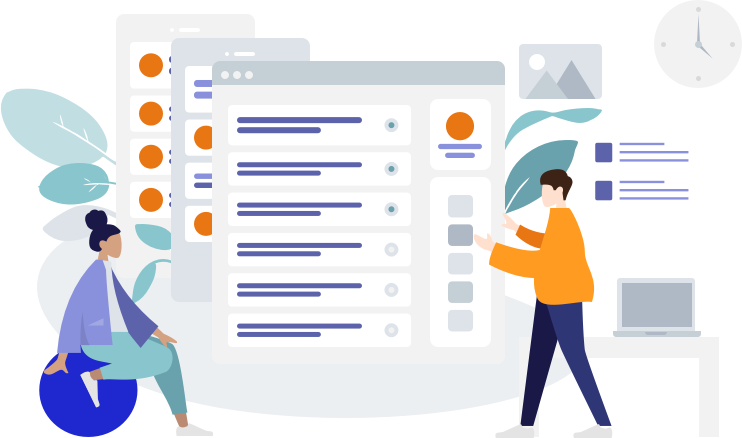
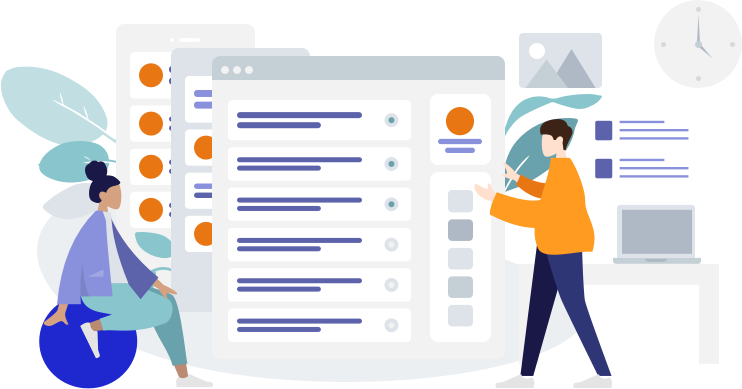
updates landing page / hide patterns navigation tab

diff --git a/index.html b/index.html
@@ -3,86 +3,108 @@ title: Home
 layout: layout-default
 ---
 
-<section class="sgds-section hide-element" >
+<section class="sgds-section hide-element" style="padding-top:10px;">
     <div class="header_bg"></div>
     <div class="sgds-container">
-      <div class="content">
-        <div class="row">
-          <div class="col is-5 is-flex hero-main">
-            <h1 class="has-text-weight-black">
-              Singapore Government Design System
-            </h1>
-            <p class="has-text-weight-normal margin--top">
-                v{{site.sgds-version}}
-                <br>
-                Build a better digital experience for Singapore
-            </p>
-            <a href="/docs/" class="sgds-button is-rounded is-primary">Get Started</a>
-          </div>
-          
-          <div class="col">
-            <img src="/assets/img/bg_people.png" alt="two people around web browsers and mobile browsers" />
-          </div>
-        </div>
-      </div>
-    </div>
-  </section>
+        <div class="content">
+            <div class="row">
+                <div class="col is-5 is-flex hero-main">
+                    <h1 class="has-text-weight-black">
+                        Singapore Government Design System
+                    </h1>
+                    <p class="has-text-weight-normal margin--top">
+                        v{{site.sgds-version}}
+                        <br />
+                        Build a better digital experience for Singapore
+                    </p>
+                    <a href="/docs/" class="sgds-button is-rounded is-primary">Get Started</a>
+                </div>
 
-  <section class="sgds-section">
+                <div class="col">
+                    <img
+                        src="/assets/img/bg_people.png"
+                        alt="two people around web browsers and mobile browsers"
+                    />
+                </div>
+            </div>
+        </div>
+    </div>
+</section>
+
+<section class="sgds-section" style="padding-top:0px;">
     <div class="sgds-container ">
         {% include component-guide-section.html %}
-        </div>
-  </section>
+    </div>
+</section>
 
 <section class="sgds-section">
     <div class="sgds-container ">
         <div class="content">
             <div class="row has-text-centered">
-                <div class="col is-10 is-offset-1">
+                <div class="col">
                     <h2 class="has-text-weight-black">Why use SGDS</h2>
                 </div>
             </div>
             <div class="row has-text-centered">
-                <div class="col is-10 is-offset-1">
+                <div class="col">
                     <div class="row is-multiline">
                         <div class="col is-4 padding">
                             <span class="sgds-icon sgds-icon-expand-alt is-size-3"></span>
-                            <h5 class="margin--top margin--bottom--xs has-text-weight-bold">Greater Scalability</h5>
+                            <h5 class="margin--top margin--bottom--xs has-text-weight-bold">
+                                Greater Scalability
+                            </h5>
                             <p>UI Components can be adapted to suit user needs</p>
                         </div>
                         <div class="col is-4 padding">
                             <span class="sgds-icon sgds-icon-layers is-size-3"></span>
-                            <h5 class="margin--top margin--bottom--xs has-text-weight-bold">Trust in Services</h5>
+                            <h5 class="margin--top margin--bottom--xs has-text-weight-bold">
+                                Trust in Services
+                            </h5>
                             <p>Boost user confidence with recognisable design patterns</p>
                         </div>
                         <div class="col is-4 padding">
                             <span class="sgds-icon sgds-icon-thumbs-up is-size-3"></span>
-                            <h5 class="margin--top margin--bottom--xs has-text-weight-bold">Focus on User Experience</h5>
+                            <h5 class="margin--top margin--bottom--xs has-text-weight-bold">
+                                Focus on User Experience
+                            </h5>
                             <p>Spend less time styling and more time crafting user flows</p>
                         </div>
                         <div class="col is-4 padding">
                             <span class="sgds-icon sgds-icon-sync is-size-3"></span>
-                            <h5 class="margin--top margin--bottom--xs has-text-weight-bold">Easy maintenance, Low Cost</h5>
+                            <h5 class="margin--top margin--bottom--xs has-text-weight-bold">
+                                Easy maintenance, Low Cost
+                            </h5>
                             <p>Reduce technical debt from evolving design choices</p>
                         </div>
                         <div class="col is-4 padding">
                             <span class="sgds-icon sgds-icon-cog is-size-3"></span>
-                            <h5 class="margin--top margin--bottom--xs has-text-weight-bold">Faster Prototyping</h5>
+                            <h5 class="margin--top margin--bottom--xs has-text-weight-bold">
+                                Faster Prototyping
+                            </h5>
                             <p>Build and experiment with plug-n-play components</p>
                         </div>
                         <div class="col is-4 padding">
                             <span class="sgds-icon sgds-icon-person is-size-3"></span>
-                            <h5 class="margin--top margin--bottom--xs has-text-weight-bold">Uncomplicated Compliance</h5>
-                            <p>With <a
-                                    href="https://www.tech.gov.sg/digital-service-standards/">Digital Services
-                                    Standards</a> and <a href="https://www.w3.org/WAI/standards-guidelines/wcag/">WCAG</a></p>
+                            <h5 class="margin--top margin--bottom--xs has-text-weight-bold">
+                                Uncomplicated Compliance
+                            </h5>
+                            <p>
+                                With
+                                <a href="https://www.tech.gov.sg/digital-service-standards/"
+                                    >Digital Services Standards</a
+                                >
+                                and
+                                <a href="https://www.w3.org/WAI/standards-guidelines/wcag/">WCAG</a>
+                            </p>
                         </div>
                     </div>
                 </div>
             </div>
             <div class="row has-text-centered">
                 <div class="col margin--top--lg">
-                    <a class="sgds-button is-primary is-rounded" role="button" href="/about/">Learn more about SGDS</a>
+                    <a class="sgds-button is-primary is-rounded" role="button" href="/about/"
+                        >Learn more about SGDS</a
+                    >
                 </div>
             </div>
         </div>
@@ -99,26 +121,40 @@ layout: layout-default
             </div>
             <div class="row has-text-centered">
                 <div class="col is-8 is-offset-2">
-                        <img src="/assets/img/img_change.png" alt="two ladies meeting" />
+                    <img src="/assets/img/img_change.png" alt="two ladies meeting" />
                     <p class="has-text-white">
-                        SGDS is <a href="https://github.com/govtechsg/sgds" class="has-text-white" style="text-decoration: underline">open source.</a>
+                        SGDS is
+                        <a
+                            href="https://github.com/govtechsg/sgds"
+                            class="has-text-white"
+                            style="text-decoration: underline"
+                            >open source.</a
+                        >
                     </p>
                     <p class="has-text-white">
-                        If you are a developer, designer or content writer, you can help us transform the Singapore
-                        Government's digital services. Let's build a trusted, ever-evolving ecosystem together.</p>
+                        If you are a developer, designer or content writer, you can help us
+                        transform the Singapore Government's digital services. Let's build a
+                        trusted, ever-evolving ecosystem together.
+                    </p>
                 </div>
             </div>
             <div class="row has-text-centered padding--top is-multiline">
                 <div class="col is-12">
-                        <p>Have questions or can't find what you're looking for?</p>
+                    <p>Have questions or can't find what you're looking for?</p>
                 </div>
                 <div class="col is-12">
-                    <a class="sgds-button is-rounded is-outlined is-white margin--left margin--right"
-                        href="https://github.com/govtechsg/sgds/issues" 
-                        target="_blank">Ask us on GitHub</a>
-                    <a class="sgds-button is-rounded is-outlined is-white margin--left margin--right"
+                    <a
+                        class="sgds-button is-rounded is-outlined is-white margin--left margin--right"
+                        href="https://github.com/govtechsg/sgds/issues"
+                        target="_blank"
+                        >Ask us on GitHub</a
+                    >
+                    <a
+                        class="sgds-button is-rounded is-outlined is-white margin--left margin--right"
                         href="https://t.me/sgds_public"
-                        target="_blank">Talk to us on Telegram</a>
+                        target="_blank"
+                        >Talk to us on Telegram</a
+                    >
                 </div>
             </div>
         </div>

diff --git a/_layouts/layout-sidenav.html b/_layouts/layout-sidenav.html
@@ -1,32 +1,16 @@
 ---
 layout: layout-default
 ---
+
 <section class="sgds-section is-small">
     <div class="sgds-container">
         <div class="row sidenav-container">
-<<<<<<< HEAD
-            <div class="col is-2 is-hidden-touch sidenav" 
-                data-topspacing="140" 
-                data-bottomspacing="40">
-                <div class="sidebar__inner sgds-menu">
-                    {% if page.url contains '/docs/' %}
-                    {% include sidenav-docs.html %}
-                    {% elsif page.url contains '/patterns/' %}
-                    {% include sidenav-patterns.html %}
-                    {% else %}
-                    {% include sidenav-collection.html %}
-                    {% endif %}
-=======
             <div class="col is-2 is-hidden-touch">
                 <div class="sidenav" data-topspacing="140" data-bottomspacing="40">
                     <div class="sidebar__inner sgds-menu">
-                        {% if page.url contains '/docs/' %}
-                        {% include sidenav-docs.html %}
-                        {% else %}
-                        {% include sidenav-collection.html %}
-                        {% endif %}
+                        {% if page.url contains '/docs/' %} {% include sidenav-docs.html %} {% else
+                        %} {% include sidenav-collection.html %} {% endif %}
                     </div>
->>>>>>> c1535b443333a548e40f2cd927118464ba8500b5
                 </div>
             </div>
             <div class="col is-8 is-12-touch is-offset-1-desktop">

diff --git a/assets/custom-css/main.scss b/assets/custom-css/main.scss
@@ -88,7 +88,7 @@ a[target="_blank"]:after {
   top: -24px;
   right: 0;
   width: 55vw;
-  height: 600px;
+  height: 420px;
   background-color: #7B50CE;
   transform: skewX(-32deg);
   transform-origin: right bottom;
